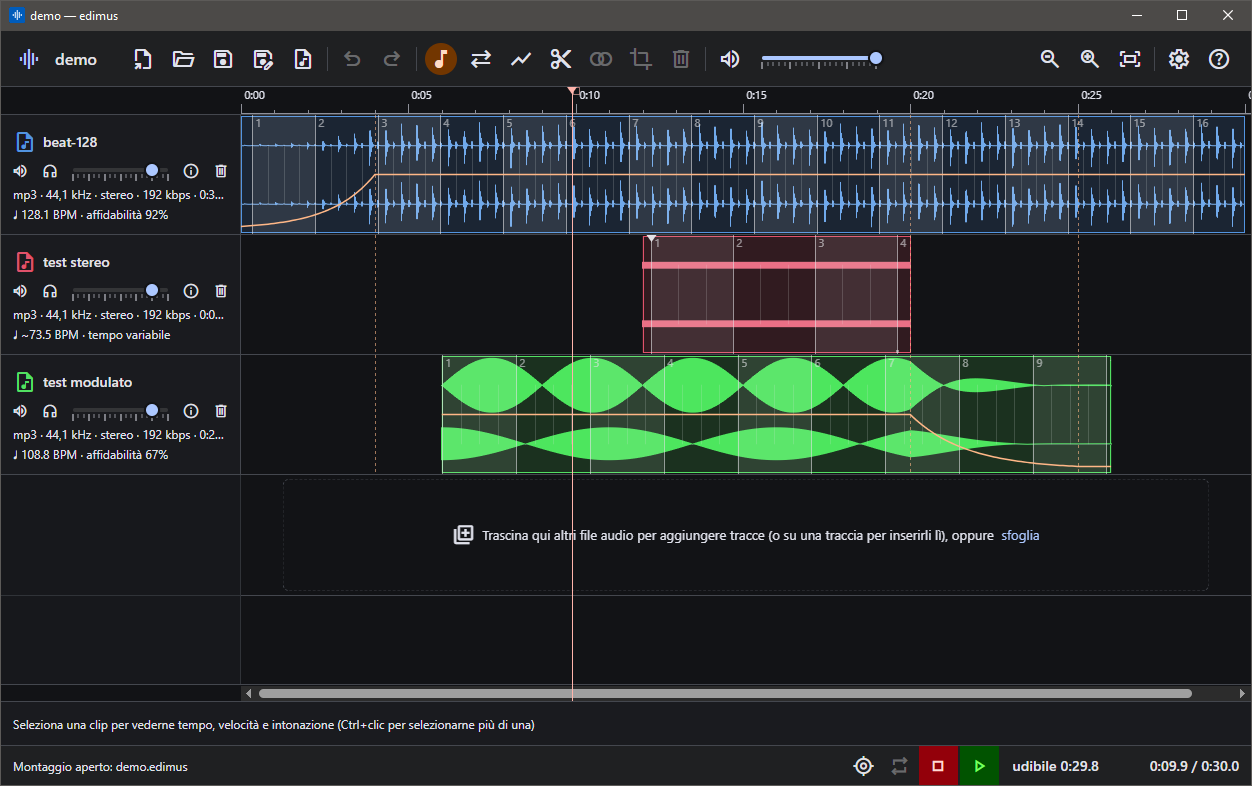
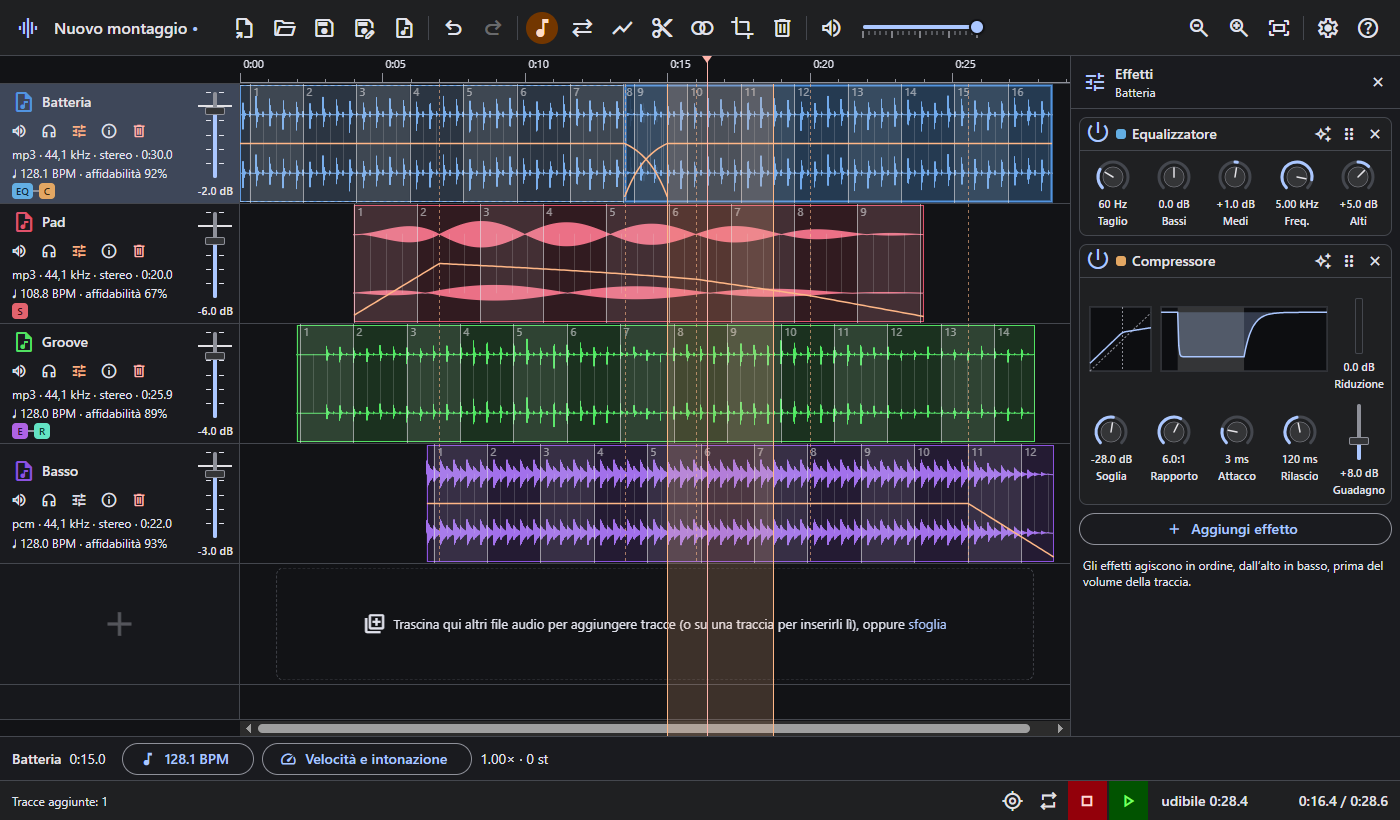
README: screenshot aggiornato alla 1.9.0 (quattro tracce con griglia delle battute, inviluppi, dissolvenza incrociata, catene degli effetti e pannello effetti aperto) e didascalia che cita gli effetti per traccia

diff --git a/README.md b/README.md
@@ -6,7 +6,7 @@ da un assistente AI.**
 Monta, taglia, metti a tempo e mixa i tuoi brani senza mai toccare i file originali: un
 *montaggio* (`.edimus`) li richiama e descrive come comporli, e l'export produce il mix finale.
 
-![edimus: tre tracce con griglia delle battute e inviluppi di volume](docs/images/screenshot.png)
+![edimus: tracce con griglia delle battute, inviluppi di volume ed effetti per traccia](docs/images/screenshot.png)
 
 ## In evidenza
 
